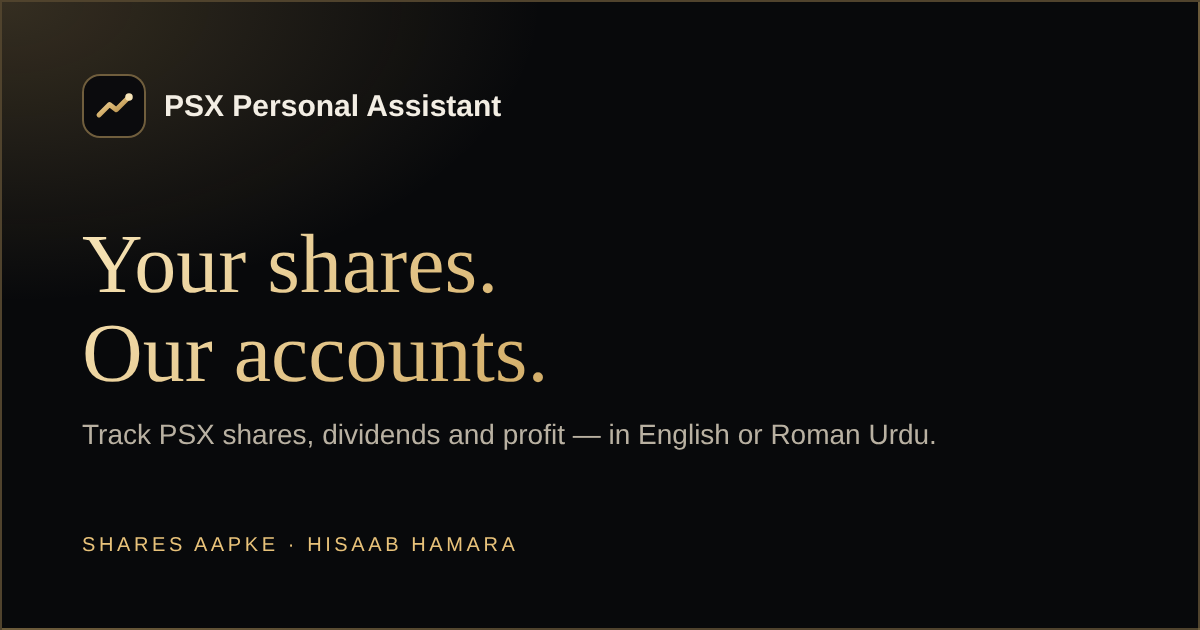
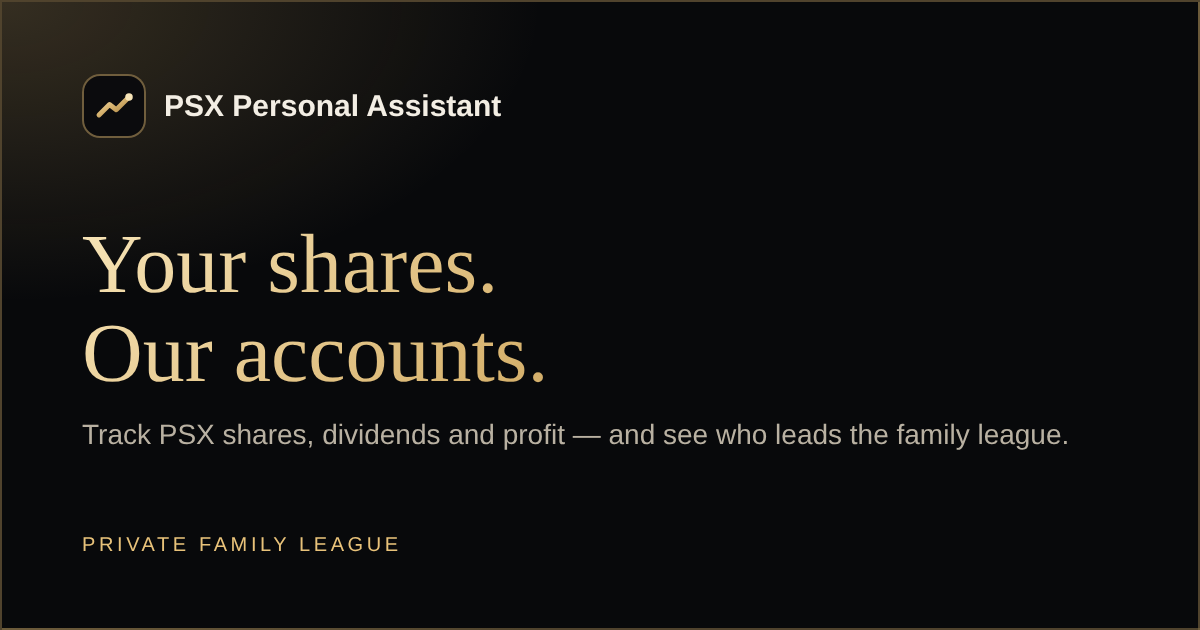
English only; Add Entry opens the form directly
- Add Entry goes straight to the entry form everywhere; the screenshot and
  voice options are gone
- The app is English-only: language switches removed, tagline in English
- Site description, share image, manifest and privacy page updated; the
  microphone permission is no longer requested

Claude-Session: https://claude.ai/code/session_01GS2pgQyd6quhfUUZNqMAMY

Changed region(s): [[0.4933, 0.6635, 0.8942, 0.7238], [0.0617, 0.8444, 0.4317, 0.8746]]

diff --git a/site/index.html b/site/index.html
@@ -1,4 +1,4 @@
-<!doctype html><html><head><meta charset=utf8><meta name=viewport content="width=device-width,initial-scale=1,viewport-fit=cover"><meta name="description" content="Track your Pakistan Stock Exchange shares, average price, dividends and profit in one place — in English or Roman Urdu. Free."><meta name="theme-color" content="#08090B"><link rel="icon" href="/icon-192.png" type="image/png"><link rel="apple-touch-icon" href="/apple-touch-icon.png"><link rel="manifest" href="/manifest.webmanifest"><link rel="canonical" href="https://psx-pilot.netlify.app/"><meta property="og:type" content="website"><meta property="og:site_name" content="PSX Personal Assistant"><meta property="og:title" content="PSX Personal Assistant — your shares, our accounts"><meta property="og:description" content="Track your Pakistan Stock Exchange shares, average price, dividends and profit in one place — in English or Roman Urdu. Free."><meta property="og:url" content="https://psx-pilot.netlify.app/"><meta property="og:image" content="https://psx-pilot.netlify.app/og.png"><meta property="og:image:width" content="1200"><meta property="og:image:height" content="630"><meta name="twitter:card" content="summary_large_image"><meta name="twitter:title" content="PSX Personal Assistant"><meta name="twitter:description" content="Track your Pakistan Stock Exchange shares, average price, dividends and profit in one place — in English or Roman Urdu. Free."><meta name="twitter:image" content="https://psx-pilot.netlify.app/og.png"><style>:root{color-scheme:light;box-sizing:border-box;padding-top:env(safe-area-inset-top,0px);padding-bottom:env(safe-area-inset-bottom,0px)}html{scroll-padding-top:env(safe-area-inset-top,0px)}body{margin:0;padding:0;font:14px -apple-system,BlinkMacSystemFont,sans-serif;background:#fff;color:#000}img{max-width:100%}[hidden]:not([hidden=until-found i]){display:none!important}</style></head><body>
+<!doctype html><html><head><meta charset=utf8><meta name=viewport content="width=device-width,initial-scale=1,viewport-fit=cover"><meta name="description" content="Track your Pakistan Stock Exchange shares, average price, dividends and profit in one place. A private family league with rankings and awards."><meta name="theme-color" content="#08090B"><link rel="icon" href="/icon-192.png" type="image/png"><link rel="apple-touch-icon" href="/apple-touch-icon.png"><link rel="manifest" href="/manifest.webmanifest"><link rel="canonical" href="https://psx-pilot.netlify.app/"><meta property="og:type" content="website"><meta property="og:site_name" content="PSX Personal Assistant"><meta property="og:title" content="PSX Personal Assistant — your shares, our accounts"><meta property="og:description" content="Track your Pakistan Stock Exchange shares, average price, dividends and profit in one place. A private family league with rankings and awards."><meta property="og:url" content="https://psx-pilot.netlify.app/"><meta property="og:image" content="https://psx-pilot.netlify.app/og.png"><meta property="og:image:width" content="1200"><meta property="og:image:height" content="630"><meta name="twitter:card" content="summary_large_image"><meta name="twitter:title" content="PSX Personal Assistant"><meta name="twitter:description" content="Track your Pakistan Stock Exchange shares, average price, dividends and profit in one place. A private family league with rankings and awards."><meta name="twitter:image" content="https://psx-pilot.netlify.app/og.png"><style>:root{color-scheme:light;box-sizing:border-box;padding-top:env(safe-area-inset-top,0px);padding-bottom:env(safe-area-inset-bottom,0px)}html{scroll-padding-top:env(safe-area-inset-top,0px)}body{margin:0;padding:0;font:14px -apple-system,BlinkMacSystemFont,sans-serif;background:#fff;color:#000}img{max-width:100%}[hidden]:not([hidden=until-found i]){display:none!important}</style></head><body>
 <title>PSX Personal Assistant</title>
 <meta name="claude:viewport-fit-sides" content="cover">
 <link rel="preconnect" href="https://fonts.googleapis.com">
@@ -1342,7 +1342,7 @@ async function connectExtras(){
 /* =========================================================================
    Language helper — Roman Urdu default, English switch
    ========================================================================= */
-const L = (ur, en) => S.lang === "en" ? en : ur;
+const L = (ur, en) => en;   // the app is English-only; Roman Urdu strings stay in the code but are never shown
 const TYPE_LABEL = () => ({BUY:L("Khareede","Bought"), SELL:L("Beche","Sold"), DIVIDEND:L("Dividend mila","Dividend"), DEPOSIT:L("Paise jama","Cash added"), WITHDRAWAL:L("Paise nikale","Cash withdrawn"), BONUS:L("Bonus shares","Bonus shares"), FEE:L("Charges","Charges")});
 const EVENT_LABEL = () => ({board:L("Board meeting","Board meeting"), results:L("Results ka elaan","Results announcement"), book:L("Book closure (dividend ke liye)","Book closure (for dividend)"), agm:L("Salana meeting (AGM)","Annual meeting (AGM)"), dividend:L("Dividend ka elaan","Dividend announcement"), other:L("Doosri khabar","Other")});
 
@@ -1441,7 +1441,7 @@ const NAV = () => [
   {r:"updates", label:L("Meri Updates","My Updates"), icon:"bell", badge: unreadToday()},
   {r:"more", label:L("More Tools","More Tools"), icon:"grid"}
 ];
-function brandHTML(){ return `<div class="brand"><div class="mark">${MARK}</div><div style="min-width:0"><div class="brand-t">PSX Personal Assistant</div><div class="brand-s">Shares Aapke. Hisaab Hamara.</div></div></div>`; }
+function brandHTML(){ return `<div class="brand"><div class="mark">${MARK}</div><div style="min-width:0"><div class="brand-t">PSX Personal Assistant</div><div class="brand-s">Your shares. Our accounts.</div></div></div>`; }
 function renderShell(){
   const nav = NAV();
   $("#rail").innerHTML = `${brandHTML()}
@@ -1455,10 +1455,6 @@ function renderShell(){
   $("#topbar-in").innerHTML = `${brandHTML()}
     <div class="top-actions">
       ${FAMILY && UI.fam.status === "ready" ? `<button class="who" data-act="fam-who" aria-label="${L("Aap kaun hain? Badlein","Who are you? Change")}">${UI.fam.me ? avatar(UI.fam.me, 26) + `<span>${esc(memberName(UI.fam.me))}</span>` : `<span>${L("Aap kaun?","Who are you?")}</span>`}</button>` : ""}
-      <div class="lang" role="group" aria-label="Language">
-        <button data-act="lang" data-v="ur" aria-pressed="${S.lang!=="en"}" aria-label="Roman Urdu"><span class="full">Urdu</span><span class="short">UR</span></button>
-        <button data-act="lang" data-v="en" aria-pressed="${S.lang==="en"}" aria-label="English"><span class="full">English</span><span class="short">EN</span></button>
-      </div>
       <button class="icon-btn" data-act="theme" aria-label="${L("Theme badlein","Change theme")}">${ic(isDark() ? "sun" : "moon", 19)}</button>
     </div>`;
   $("#tabbar").innerHTML = `<div class="tabbar-in">${nav.map(n => n.r === "add"
@@ -1466,7 +1462,7 @@ function renderShell(){
     : `<a href="#${n.r}" class="tab" data-go="${n.r}" ${UI.route===n.r?'aria-current="page"':''}>${ic(n.icon)}${n.badge ? `<span class="nbadge num" aria-label="${n.badge} ${L("nayi","new")}">${n.badge}</span>` : ""}<span>${esc(n.label)}</span></a>`).join("")}</div>`;
 }
 function isDark(){ return S.theme !== "light"; }
-function applyTheme(){ if (S.theme) document.documentElement.setAttribute("data-theme", S.theme); else document.documentElement.removeAttribute("data-theme"); document.documentElement.lang = S.lang === "en" ? "en" : "ur-Latn"; }
+function applyTheme(){ S.lang = "en"; if (S.theme) document.documentElement.setAttribute("data-theme", S.theme); else document.documentElement.removeAttribute("data-theme"); document.documentElement.lang = S.lang === "en" ? "en" : "ur-Latn"; }
 
 function render(){
   const ae = document.activeElement; const fid = ae && ae.id && ae !== document.body ? ae.id : null; let ss = null, se = null; try { ss = ae.selectionStart; se = ae.selectionEnd; } catch {}
@@ -1534,11 +1530,7 @@ function viewHome(){
     </div>
   </section>
 
-  <section aria-label="${L("Nayi entry","New entry")}" class="quick">
-    <button class="quick-btn" data-act="entry" data-v="shot"><span class="qi">${ic("camera",19)}</span><span class="qt"><b>${L("Screenshot se","From screenshot")}</b><span class="qs">${L("Broker app ki tasveer","Broker app picture")}</span></span></button>
-    <button class="quick-btn" data-act="entry" data-v="voice"><span class="qi">${ic("mic",19)}</span><span class="qt"><b>${L("Bol kar","By voice")}</b><span class="qs">${L("\"100 OGDC 210 par\"","\"100 OGDC at 210\"")}</span></span></button>
-    <button class="quick-btn" data-act="entry" data-v="manual"><span class="qi">${ic("pen",19)}</span><span class="qt"><b>${L("Khud likhein","Type it")}</b><span class="qs">${L("Aasaan form","Simple form")}</span></span></button>
-  </section>
+  <button class="btn primary block" data-go="add" style="min-height:52px">${ic("plus",18,2.4)} Add entry</button>
 
   <div class="grid2" style="align-items:start">
     <section class="card pad" aria-labelledby="today-h">
@@ -1744,18 +1736,11 @@ function capabilityLine(images){
 function viewAdd(){
   const e = UI.entry;
   if (e?.mode === "manual") return entryForm();
-  if (e?.mode === "shot") return viewShot();
-  if (e?.mode === "voice") return viewVoice();
   if (e?.mode === "review") return viewReview();
   if (e?.mode === "holdings") return viewHoldingsFound();
   if (e?.mode === "saved") return viewSaved();
-  return `<div><h1 class="h-page">${L("Nayi entry kaise karna chahenge?","How would you like to add an entry?")}</h1><p class="muted small">${L("Jo aasaan lage woh chunein. Save karne se pehle hum aap se har detail confirm karenge.","Pick what's easiest. We'll confirm every detail with you before saving.")}</p></div>
-  <div class="stack">
-    <button class="big-opt" data-act="entry" data-v="shot"><div class="ti">${ic("camera",28)}</div><div><b>${L("Screenshot Bhejein","Send a Screenshot")}</b><span>${L("Broker app ya confirmation ki tasveer se details nikaalein","Pull details from a broker app or confirmation picture")}</span><div style="margin-top:6px">${capabilityLine(true)}</div></div><div class="arrow">${ic("chev",22)}</div></button>
-    <button class="big-opt" data-act="entry" data-v="voice"><div class="ti">${ic("mic",28)}</div><div><b>${L("Bol Kar Entry Karein","Speak Your Entry")}</b><span>${L("Jaise: \"Aaj 100 OGDC 210 rupay par khareede\"","Like: \"Bought 100 OGDC at 210 today\"")}</span><div style="margin-top:6px"><span class="pill info">${ic("check",13,2.6)} ${L("Asli extraction · app ke andar","Real extraction · in-app")}</span></div></div><div class="arrow">${ic("chev",22)}</div></button>
-    <button class="big-opt" data-act="entry" data-v="manual"><div class="ti">${ic("pen",28)}</div><div><b>${L("Khud Entry Karein","Enter It Yourself")}</b><span>${L("Aasaan form, qadam ba qadam","A simple, step-by-step form")}</span></div><div class="arrow">${ic("chev",22)}</div></button>
-  </div>
-  <div class="notice info">${ic("lock",18)}<div>${L("Hum kabhi aap ka broker password nahi maangte. Sirf woh details save hoti hain jo aap confirm karein. Duplicate entries pehle hi pakar li jati hain.","We never ask for your broker password. Only details you confirm are saved. Duplicate entries are caught before saving.")}</div></div>`;
+  UI.entry = { mode:"manual", draft:{ type:"BUY", date:todayISO(), symbol:"", qty:"", price:"", fees:"", amount:"", note:"" } };
+  return entryForm();
 }
 
 /* ---------------- Screenshot ---------------- */
@@ -2045,8 +2030,8 @@ function entryForm(){
   const total = isTrade ? (Number(d.qty)||0)*(Number(d.price)||0) : Number(d.amount)||0;
   const types = [["BUY","trend",L("Shares khareede","Bought shares")],["SELL","down",L("Shares beche","Sold shares")],["DIVIDEND","coin",L("Dividend mila","Got dividend")],["DEPOSIT","upload",L("Broker mein paise daale","Added cash")],["WITHDRAWAL","download",L("Paise nikale","Withdrew cash")],["BONUS","star",L("Bonus shares mile","Got bonus shares")]];
   const TL = TYPE_LABEL();
-  return `${backBtn()}
-  <div><h1 class="h-page">${e.editId ? L("Entry badlein","Edit entry") : L("Khud entry karein","Enter it yourself")}</h1>
+  return `${e.editId ? `<button class="back" data-go="portfolio" data-sub="history">${ic("back",18)} Back</button>` : ""}
+  <div><h1 class="h-page">${e.editId ? "Edit entry" : "New entry"}</h1>
   <p class="muted small">${L("Bas yeh batayein ke kya hua. Hisaab hum laga denge.","Just tell us what happened. We'll do the maths.")}</p></div>
   <form class="card pad stack" id="entry-form" novalidate>
     <div><div class="lbl" style="margin-bottom:8px">${L("Kya hua?","What happened?")}</div>
@@ -2692,8 +2677,8 @@ function settingsView(){
     <div class="field"><label for="st-conc">${L("Ek company mein zyada se zyada (%)","Max in one company (%)")}</label><input class="input num" id="st-conc" inputmode="numeric" value="${st.concLimit}"></div></div>
     <button class="btn primary" type="submit">${L("Save karein","Save")}</button>
   </form>
-  <div class="card pad stack"><h2 class="h-sec">${L("Zabaan aur theme","Language and theme")}</h2>
-    <div class="row" style="flex-wrap:wrap"><div class="lang"><button data-act="lang" data-v="ur" aria-pressed="${S.lang!=="en"}">Roman Urdu</button><button data-act="lang" data-v="en" aria-pressed="${S.lang==="en"}">English</button></div>
+  <div class="card pad stack"><h2 class="h-sec">Theme</h2>
+    <div class="row" style="flex-wrap:wrap">
     <div class="lang"><button data-act="theme-set" data-v="" aria-pressed="${!S.theme}">${L("Asal (dark)","Default (dark)")}</button><button data-act="theme-set" data-v="light" aria-pressed="${S.theme==="light"}">${L("Roshan","Light")}</button><button data-act="theme-set" data-v="dark" aria-pressed="${S.theme==="dark"}">${L("Andhera","Dark")}</button></div></div></div>
   <div class="card pad stack"><h2 class="h-sec">${L("Privacy aur aap ka data","Privacy and your data")}</h2>
     <div class="notice ${UI.storage==="cloud"||UI.storage==="account"?"green":"info"}">${ic("lock",18)}<div>${UI.storage === "account" ? L("Aap ka data aap ke account mein mehfooz hai aur har device par sign in karne se mil jata hai.","Your data is saved to your account and appears on any device you sign in on.") : UI.storage === "cloud" ? L("Aap ka data aap ke Claude account mein private save hota hai. Koi aur — is page ka owner bhi — ise nahi dekh sakta.","Your data is saved privately to your Claude account. No one else — not even this page's owner — can see it.") : L("Aap ka data sirf is browser mein save hai. Browser ki history saaf karne se mit sakta hai, is liye backup rakhein.","Your data is saved in this browser only. Clearing browser data can erase it, so keep a backup.")}</div></div>
@@ -3042,7 +3027,7 @@ async function exportPdf(spec, filename){
   const doc = new jsPDF({ unit: "pt", format: "a4" }); const W = doc.internal.pageSize.getWidth(); const M = 40; let y = 0;
   doc.setFillColor(11, 31, 63); doc.rect(0, 0, W, 76, "F");
   doc.setTextColor(255, 255, 255); doc.setFont("helvetica", "bold"); doc.setFontSize(16); doc.text("PSX Personal Assistant", M, 32);
-  doc.setFont("helvetica", "normal"); doc.setFontSize(10); doc.text("Shares Aapke. Hisaab Hamara.", M, 50); doc.text(pdfSafe(`${L("Banai gayi","Created")}: ${fmtDate(todayISO())}`), W - M, 50, { align: "right" });
+  doc.setFont("helvetica", "normal"); doc.setFontSize(10); doc.text("Your shares. Our accounts.", M, 50); doc.text(pdfSafe(`${L("Banai gayi","Created")}: ${fmtDate(todayISO())}`), W - M, 50, { align: "right" });
   y = 108; doc.setTextColor(11, 27, 51); doc.setFont("helvetica", "bold"); doc.setFontSize(18); doc.text(pdfSafe(spec.title), M, y); y += 18;
   if (spec.subtitle){ doc.setFont("helvetica", "normal"); doc.setFontSize(10); doc.setTextColor(71, 87, 122); const l = doc.splitTextToSize(pdfSafe(spec.subtitle), W - 2 * M); doc.text(l, M, y + 4); y += 14 * l.length + 6; }
   const ensure = h => { if (y + h > doc.internal.pageSize.getHeight() - 60){ doc.addPage(); y = 50; } };

diff --git a/app/index.html b/app/index.html
@@ -1342,7 +1342,7 @@ async function connectExtras(){
 /* =========================================================================
    Language helper — Roman Urdu default, English switch
    ========================================================================= */
-const L = (ur, en) => S.lang === "en" ? en : ur;
+const L = (ur, en) => en;   // the app is English-only; Roman Urdu strings stay in the code but are never shown
 const TYPE_LABEL = () => ({BUY:L("Khareede","Bought"), SELL:L("Beche","Sold"), DIVIDEND:L("Dividend mila","Dividend"), DEPOSIT:L("Paise jama","Cash added"), WITHDRAWAL:L("Paise nikale","Cash withdrawn"), BONUS:L("Bonus shares","Bonus shares"), FEE:L("Charges","Charges")});
 const EVENT_LABEL = () => ({board:L("Board meeting","Board meeting"), results:L("Results ka elaan","Results announcement"), book:L("Book closure (dividend ke liye)","Book closure (for dividend)"), agm:L("Salana meeting (AGM)","Annual meeting (AGM)"), dividend:L("Dividend ka elaan","Dividend announcement"), other:L("Doosri khabar","Other")});
 
@@ -1441,7 +1441,7 @@ const NAV = () => [
   {r:"updates", label:L("Meri Updates","My Updates"), icon:"bell", badge: unreadToday()},
   {r:"more", label:L("More Tools","More Tools"), icon:"grid"}
 ];
-function brandHTML(){ return `<div class="brand"><div class="mark">${MARK}</div><div style="min-width:0"><div class="brand-t">PSX Personal Assistant</div><div class="brand-s">Shares Aapke. Hisaab Hamara.</div></div></div>`; }
+function brandHTML(){ return `<div class="brand"><div class="mark">${MARK}</div><div style="min-width:0"><div class="brand-t">PSX Personal Assistant</div><div class="brand-s">Your shares. Our accounts.</div></div></div>`; }
 function renderShell(){
   const nav = NAV();
   $("#rail").innerHTML = `${brandHTML()}
@@ -1455,10 +1455,6 @@ function renderShell(){
   $("#topbar-in").innerHTML = `${brandHTML()}
     <div class="top-actions">
       ${FAMILY && UI.fam.status === "ready" ? `<button class="who" data-act="fam-who" aria-label="${L("Aap kaun hain? Badlein","Who are you? Change")}">${UI.fam.me ? avatar(UI.fam.me, 26) + `<span>${esc(memberName(UI.fam.me))}</span>` : `<span>${L("Aap kaun?","Who are you?")}</span>`}</button>` : ""}
-      <div class="lang" role="group" aria-label="Language">
-        <button data-act="lang" data-v="ur" aria-pressed="${S.lang!=="en"}" aria-label="Roman Urdu"><span class="full">Urdu</span><span class="short">UR</span></button>
-        <button data-act="lang" data-v="en" aria-pressed="${S.lang==="en"}" aria-label="English"><span class="full">English</span><span class="short">EN</span></button>
-      </div>
       <button class="icon-btn" data-act="theme" aria-label="${L("Theme badlein","Change theme")}">${ic(isDark() ? "sun" : "moon", 19)}</button>
     </div>`;
   $("#tabbar").innerHTML = `<div class="tabbar-in">${nav.map(n => n.r === "add"
@@ -1466,7 +1462,7 @@ function renderShell(){
     : `<a href="#${n.r}" class="tab" data-go="${n.r}" ${UI.route===n.r?'aria-current="page"':''}>${ic(n.icon)}${n.badge ? `<span class="nbadge num" aria-label="${n.badge} ${L("nayi","new")}">${n.badge}</span>` : ""}<span>${esc(n.label)}</span></a>`).join("")}</div>`;
 }
 function isDark(){ return S.theme !== "light"; }
-function applyTheme(){ if (S.theme) document.documentElement.setAttribute("data-theme", S.theme); else document.documentElement.removeAttribute("data-theme"); document.documentElement.lang = S.lang === "en" ? "en" : "ur-Latn"; }
+function applyTheme(){ S.lang = "en"; if (S.theme) document.documentElement.setAttribute("data-theme", S.theme); else document.documentElement.removeAttribute("data-theme"); document.documentElement.lang = S.lang === "en" ? "en" : "ur-Latn"; }
 
 function render(){
   const ae = document.activeElement; const fid = ae && ae.id && ae !== document.body ? ae.id : null; let ss = null, se = null; try { ss = ae.selectionStart; se = ae.selectionEnd; } catch {}
@@ -1534,11 +1530,7 @@ function viewHome(){
     </div>
   </section>
 
-  <section aria-label="${L("Nayi entry","New entry")}" class="quick">
-    <button class="quick-btn" data-act="entry" data-v="shot"><span class="qi">${ic("camera",19)}</span><span class="qt"><b>${L("Screenshot se","From screenshot")}</b><span class="qs">${L("Broker app ki tasveer","Broker app picture")}</span></span></button>
-    <button class="quick-btn" data-act="entry" data-v="voice"><span class="qi">${ic("mic",19)}</span><span class="qt"><b>${L("Bol kar","By voice")}</b><span class="qs">${L("\"100 OGDC 210 par\"","\"100 OGDC at 210\"")}</span></span></button>
-    <button class="quick-btn" data-act="entry" data-v="manual"><span class="qi">${ic("pen",19)}</span><span class="qt"><b>${L("Khud likhein","Type it")}</b><span class="qs">${L("Aasaan form","Simple form")}</span></span></button>
-  </section>
+  <button class="btn primary block" data-go="add" style="min-height:52px">${ic("plus",18,2.4)} Add entry</button>
 
   <div class="grid2" style="align-items:start">
     <section class="card pad" aria-labelledby="today-h">
@@ -1744,18 +1736,11 @@ function capabilityLine(images){
 function viewAdd(){
   const e = UI.entry;
   if (e?.mode === "manual") return entryForm();
-  if (e?.mode === "shot") return viewShot();
-  if (e?.mode === "voice") return viewVoice();
   if (e?.mode === "review") return viewReview();
   if (e?.mode === "holdings") return viewHoldingsFound();
   if (e?.mode === "saved") return viewSaved();
-  return `<div><h1 class="h-page">${L("Nayi entry kaise karna chahenge?","How would you like to add an entry?")}</h1><p class="muted small">${L("Jo aasaan lage woh chunein. Save karne se pehle hum aap se har detail confirm karenge.","Pick what's easiest. We'll confirm every detail with you before saving.")}</p></div>
-  <div class="stack">
-    <button class="big-opt" data-act="entry" data-v="shot"><div class="ti">${ic("camera",28)}</div><div><b>${L("Screenshot Bhejein","Send a Screenshot")}</b><span>${L("Broker app ya confirmation ki tasveer se details nikaalein","Pull details from a broker app or confirmation picture")}</span><div style="margin-top:6px">${capabilityLine(true)}</div></div><div class="arrow">${ic("chev",22)}</div></button>
-    <button class="big-opt" data-act="entry" data-v="voice"><div class="ti">${ic("mic",28)}</div><div><b>${L("Bol Kar Entry Karein","Speak Your Entry")}</b><span>${L("Jaise: \"Aaj 100 OGDC 210 rupay par khareede\"","Like: \"Bought 100 OGDC at 210 today\"")}</span><div style="margin-top:6px"><span class="pill info">${ic("check",13,2.6)} ${L("Asli extraction · app ke andar","Real extraction · in-app")}</span></div></div><div class="arrow">${ic("chev",22)}</div></button>
-    <button class="big-opt" data-act="entry" data-v="manual"><div class="ti">${ic("pen",28)}</div><div><b>${L("Khud Entry Karein","Enter It Yourself")}</b><span>${L("Aasaan form, qadam ba qadam","A simple, step-by-step form")}</span></div><div class="arrow">${ic("chev",22)}</div></button>
-  </div>
-  <div class="notice info">${ic("lock",18)}<div>${L("Hum kabhi aap ka broker password nahi maangte. Sirf woh details save hoti hain jo aap confirm karein. Duplicate entries pehle hi pakar li jati hain.","We never ask for your broker password. Only details you confirm are saved. Duplicate entries are caught before saving.")}</div></div>`;
+  UI.entry = { mode:"manual", draft:{ type:"BUY", date:todayISO(), symbol:"", qty:"", price:"", fees:"", amount:"", note:"" } };
+  return entryForm();
 }
 
 /* ---------------- Screenshot ---------------- */
@@ -2045,8 +2030,8 @@ function entryForm(){
   const total = isTrade ? (Number(d.qty)||0)*(Number(d.price)||0) : Number(d.amount)||0;
   const types = [["BUY","trend",L("Shares khareede","Bought shares")],["SELL","down",L("Shares beche","Sold shares")],["DIVIDEND","coin",L("Dividend mila","Got dividend")],["DEPOSIT","upload",L("Broker mein paise daale","Added cash")],["WITHDRAWAL","download",L("Paise nikale","Withdrew cash")],["BONUS","star",L("Bonus shares mile","Got bonus shares")]];
   const TL = TYPE_LABEL();
-  return `${backBtn()}
-  <div><h1 class="h-page">${e.editId ? L("Entry badlein","Edit entry") : L("Khud entry karein","Enter it yourself")}</h1>
+  return `${e.editId ? `<button class="back" data-go="portfolio" data-sub="history">${ic("back",18)} Back</button>` : ""}
+  <div><h1 class="h-page">${e.editId ? "Edit entry" : "New entry"}</h1>
   <p class="muted small">${L("Bas yeh batayein ke kya hua. Hisaab hum laga denge.","Just tell us what happened. We'll do the maths.")}</p></div>
   <form class="card pad stack" id="entry-form" novalidate>
     <div><div class="lbl" style="margin-bottom:8px">${L("Kya hua?","What happened?")}</div>
@@ -2692,8 +2677,8 @@ function settingsView(){
     <div class="field"><label for="st-conc">${L("Ek company mein zyada se zyada (%)","Max in one company (%)")}</label><input class="input num" id="st-conc" inputmode="numeric" value="${st.concLimit}"></div></div>
     <button class="btn primary" type="submit">${L("Save karein","Save")}</button>
   </form>
-  <div class="card pad stack"><h2 class="h-sec">${L("Zabaan aur theme","Language and theme")}</h2>
-    <div class="row" style="flex-wrap:wrap"><div class="lang"><button data-act="lang" data-v="ur" aria-pressed="${S.lang!=="en"}">Roman Urdu</button><button data-act="lang" data-v="en" aria-pressed="${S.lang==="en"}">English</button></div>
+  <div class="card pad stack"><h2 class="h-sec">Theme</h2>
+    <div class="row" style="flex-wrap:wrap">
     <div class="lang"><button data-act="theme-set" data-v="" aria-pressed="${!S.theme}">${L("Asal (dark)","Default (dark)")}</button><button data-act="theme-set" data-v="light" aria-pressed="${S.theme==="light"}">${L("Roshan","Light")}</button><button data-act="theme-set" data-v="dark" aria-pressed="${S.theme==="dark"}">${L("Andhera","Dark")}</button></div></div></div>
   <div class="card pad stack"><h2 class="h-sec">${L("Privacy aur aap ka data","Privacy and your data")}</h2>
     <div class="notice ${UI.storage==="cloud"||UI.storage==="account"?"green":"info"}">${ic("lock",18)}<div>${UI.storage === "account" ? L("Aap ka data aap ke account mein mehfooz hai aur har device par sign in karne se mil jata hai.","Your data is saved to your account and appears on any device you sign in on.") : UI.storage === "cloud" ? L("Aap ka data aap ke Claude account mein private save hota hai. Koi aur — is page ka owner bhi — ise nahi dekh sakta.","Your data is saved privately to your Claude account. No one else — not even this page's owner — can see it.") : L("Aap ka data sirf is browser mein save hai. Browser ki history saaf karne se mit sakta hai, is liye backup rakhein.","Your data is saved in this browser only. Clearing browser data can erase it, so keep a backup.")}</div></div>
@@ -3042,7 +3027,7 @@ async function exportPdf(spec, filename){
   const doc = new jsPDF({ unit: "pt", format: "a4" }); const W = doc.internal.pageSize.getWidth(); const M = 40; let y = 0;
   doc.setFillColor(11, 31, 63); doc.rect(0, 0, W, 76, "F");
   doc.setTextColor(255, 255, 255); doc.setFont("helvetica", "bold"); doc.setFontSize(16); doc.text("PSX Personal Assistant", M, 32);
-  doc.setFont("helvetica", "normal"); doc.setFontSize(10); doc.text("Shares Aapke. Hisaab Hamara.", M, 50); doc.text(pdfSafe(`${L("Banai gayi","Created")}: ${fmtDate(todayISO())}`), W - M, 50, { align: "right" });
+  doc.setFont("helvetica", "normal"); doc.setFontSize(10); doc.text("Your shares. Our accounts.", M, 50); doc.text(pdfSafe(`${L("Banai gayi","Created")}: ${fmtDate(todayISO())}`), W - M, 50, { align: "right" });
   y = 108; doc.setTextColor(11, 27, 51); doc.setFont("helvetica", "bold"); doc.setFontSize(18); doc.text(pdfSafe(spec.title), M, y); y += 18;
   if (spec.subtitle){ doc.setFont("helvetica", "normal"); doc.setFontSize(10); doc.setTextColor(71, 87, 122); const l = doc.splitTextToSize(pdfSafe(spec.subtitle), W - 2 * M); doc.text(l, M, y + 4); y += 14 * l.length + 6; }
   const ensure = h => { if (y + h > doc.internal.pageSize.getHeight() - 60){ doc.addPage(); y = 50; } };

diff --git a/site/sw.js b/site/sw.js
@@ -1,7 +1,7 @@
 // Service worker for PSX Personal Assistant: makes the app installable and lets it open offline.
 // Pages: network first (always the newest app when online), cached copy when offline.
 // Other same-origin files: cached copy straight away, refreshed in the background.
-const CACHE = "psx-assistant-00c08353fd48";
+const CACHE = "psx-assistant-0f7316d8e21a";
 const SHELL = ["/", "/manifest.webmanifest", "/icon-192.png", "/icon-512.png", "/apple-touch-icon.png"];
 
 self.addEventListener("install", (event) => {

diff --git a/site/privacy.html b/site/privacy.html
@@ -57,7 +57,6 @@ ul{padding-left:20px}
     <li>Netlify hosts the website.</li>
     <li>Google Fonts supplies the typefaces, and public code libraries are loaded from jsDelivr and cdnjs.</li>
     <li>Supabase stores the family's data.</li>
-    <li>The in-app microphone uses your browser's speech recognition; in Chrome, Google turns speech into text. No recording is saved by the app.</li>
   </ul>
 
   <h2>Deleting your data</h2>

diff --git a/README.md b/README.md
@@ -1,13 +1,13 @@
 # PSX Personal Assistant
 
-*Shares Aapke. Hisaab Hamara.* A personal record-keeper for Pakistan Stock Exchange investors, in English and Roman Urdu.
+*Your shares. Our accounts.* A personal record-keeper for Pakistan Stock Exchange investors.
 
 Live: https://psx-pilot.netlify.app
 
 ## What it does
 
 - Portfolio with weighted-average cost, profit/loss, dividends and cash
-- Entries by typing or by voice (in-app mic)
+- Entries through a simple form
 - Your own current prices per share, so the portfolio value is real; demo prices fill in only where you haven't entered one
 - Dividend assistant, reminders (exportable to your phone calendar), monthly account, tax-year report, broker statement match, charges check, WhatsApp tip checker
 - Family league: three people, one private link, ranking by total return %, race chart and awards
